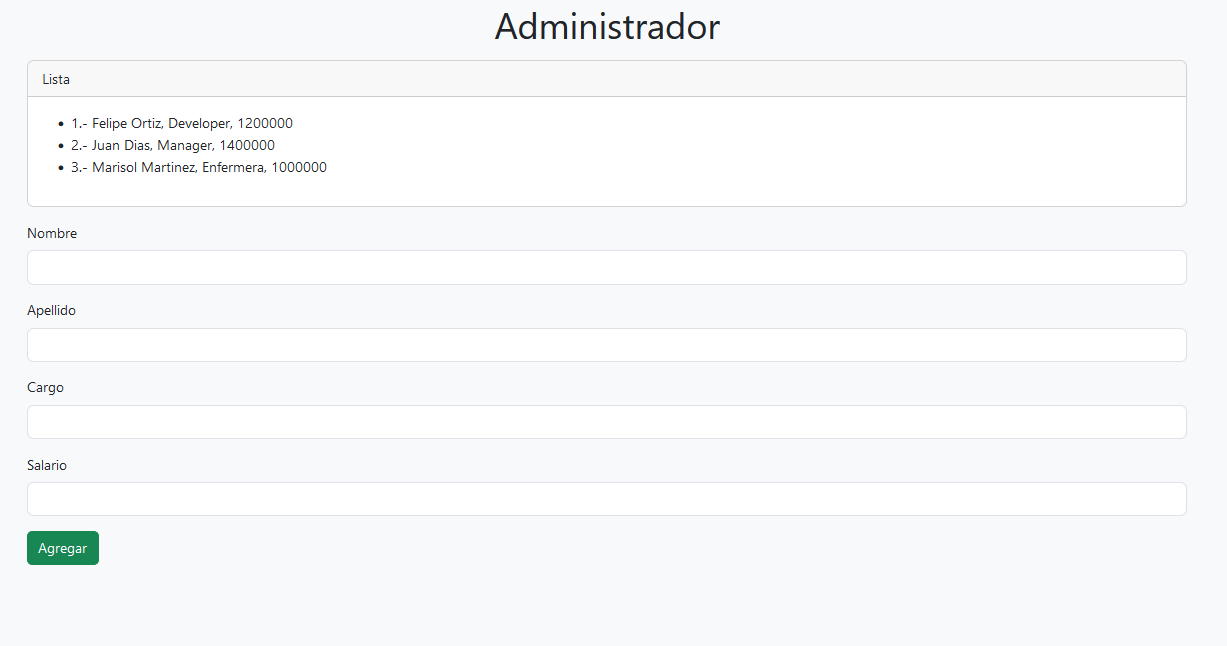
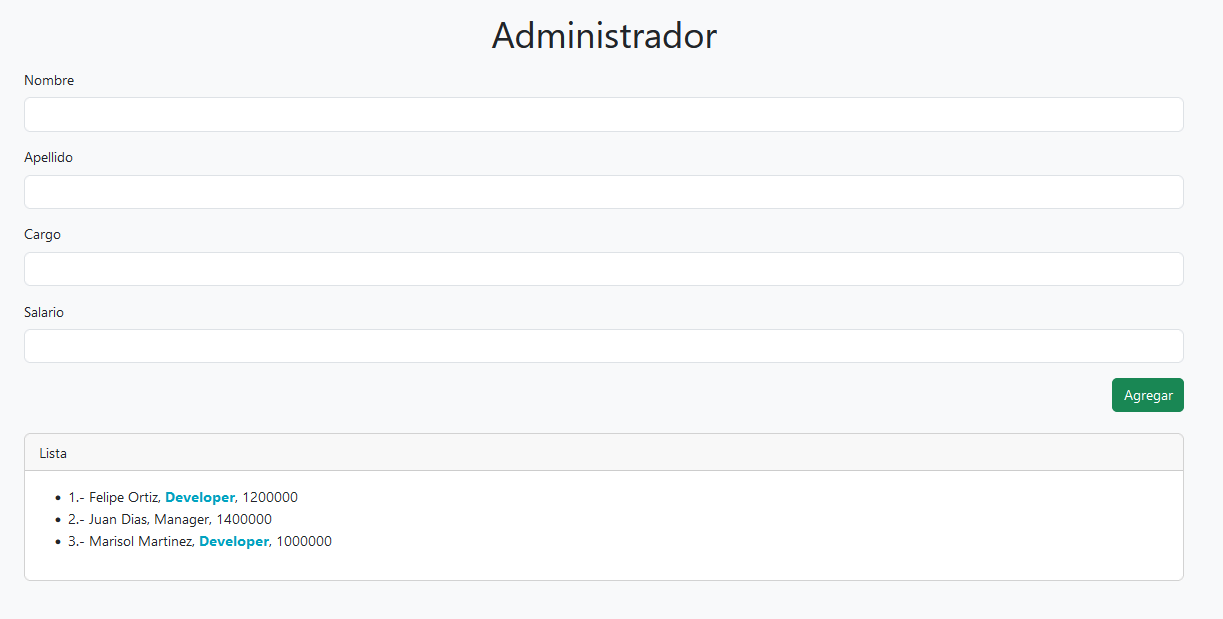
update

diff --git a/src/app/empleados/empleados.component.html b/src/app/empleados/empleados.component.html
@@ -1,40 +1,44 @@
 <div class="container">
-    <div class="card">
+    <div class="mt-3">
+        <form action="">
+            <div class="mb-3">
+                <label class="form-label" for="nombre">Nombre</label>
+                <input [(ngModel)]="txtNombre" class="form-control" type="text" name="nombre" id="nombre">
+            </div>
+
+            <div class="mb-3">
+                <label class="form-label" for="apellido">Apellido</label>
+                <input [(ngModel)]="txtApellido" class="form-control" type="text" name="apellido" id="apellido">
+            </div>
+
+            <div class="mb-3">
+                <label class="form-label" for="cargo">Cargo</label>
+                <input [(ngModel)]="txtCargo" class="form-control" type="text" name="cargo" id="cargo">
+            </div>
+
+            <div class="mb-3">
+                <label class="form-label" for="salario">Salario</label>
+                <input [(ngModel)]="txtSalario" class="form-control" type="text" name="salario" id="salario">
+            </div>
+
+            <div class="d-flex justify-content-end">
+                <input type="submit" value="Agregar" class="btn btn-success" (click)="agregarEmpleado()">
+            </div>
+        </form>
+    </div>
+
+    <div class="card my-4">
         <div class="card-header">
             Lista
         </div>
         <div class="card-body">
             <ul>
                 <li *ngFor="let empleado of empleados; let i = index">
-                    {{i+1}}.- {{empleado.nombre}} {{empleado.apellido}}, {{empleado.cargo}}, {{empleado.salario}}
+                    {{i+1}}.- {{empleado.nombre}} {{empleado.apellido}}, <span [ngClass]="{desarrollador: empleado.cargo == 'Developer'}">{{empleado.cargo}}</span>, {{empleado.salario}}
                 </li>
             </ul>
         </div>
     </div>
 
-    <div class="mt-3">
-        <form action="">
-            <div class="mb-3">
-                <label class="form-label" for="nombre">Nombre</label>
-                <input [(ngModel)]="nombre" class="form-control" type="text" name="nombre" id="nombre">
-            </div>
-
-            <div class="mb-3">
-                <label class="form-label" for="apellido">Apellido</label>
-                <input [(ngModel)]="apellido" class="form-control" type="text" name="apellido" id="apellido">
-            </div>
-
-            <div class="mb-3">
-                <label class="form-label" for="cargo">Cargo</label>
-                <input [(ngModel)]="cargo" class="form-control" type="text" name="cargo" id="cargo">
-            </div>
-
-            <div class="mb-3">
-                <label class="form-label" for="salario">Salario</label>
-                <input [(ngModel)]="salario" class="form-control" type="text" name="salario" id="salario">
-            </div>
-
-            <input type="submit" value="Agregar" class="btn btn-success" (click)="agregarEmpleado()">
-        </form>
-    </div>
+    
 </div>

diff --git a/src/app/empleados/empleados.component.ts b/src/app/empleados/empleados.component.ts
@@ -7,10 +7,10 @@ import { Empleado } from '../models/empleado';
   styleUrls: ['./empleados.component.css']
 })
 export class EmpleadosComponent {
-  nombre: string= "";
-  apellido: string= "";
-  cargo: string= "";
-  salario: string= "";
+  txtNombre: string= "";
+  txtApellido: string= "";
+  txtCargo: string= "";
+  txtSalario: string= "";
 
   empleados: Empleado[] = [
       new Empleado('Felipe', 'Ortiz', 'Developer', '1200000'),
@@ -18,12 +18,12 @@ export class EmpleadosComponent {
   ];
 
   agregarEmpleado(){
-    let empleado = new Empleado(this.nombre, this.apellido, this.cargo, this.salario);
+    let empleado = new Empleado(this.txtNombre, this.txtApellido, this.txtCargo, this.txtSalario);
     this.empleados.push(empleado);
-    this.nombre = "";
-    this.apellido = "";
-    this.cargo = "";
-    this.salario = "";
+    this.txtNombre = "";
+    this.txtApellido = "";
+    this.txtCargo = "";
+    this.txtSalario = "";
     // console.log(empleado);
   }
 }

diff --git a/src/styles.css b/src/styles.css
@@ -1,1 +1,5 @@
 /* You can add global styles to this file, and also import other style files */
+.desarrollador {
+    color: rgb(0, 163, 192);
+    font-weight: bold;
+}

diff --git a/README.md b/README.md
@@ -3,6 +3,6 @@
 
 - Proyecto de prueba de conceptos de angular 16
 - Clases Modelos
-- Formulario con [(ngModel)] y event binding
+- Formulario con [(ngModel)], [ngClass], [ngStyle] y event binding
 - Lista con *ngFor
 - Bootstrap 5
